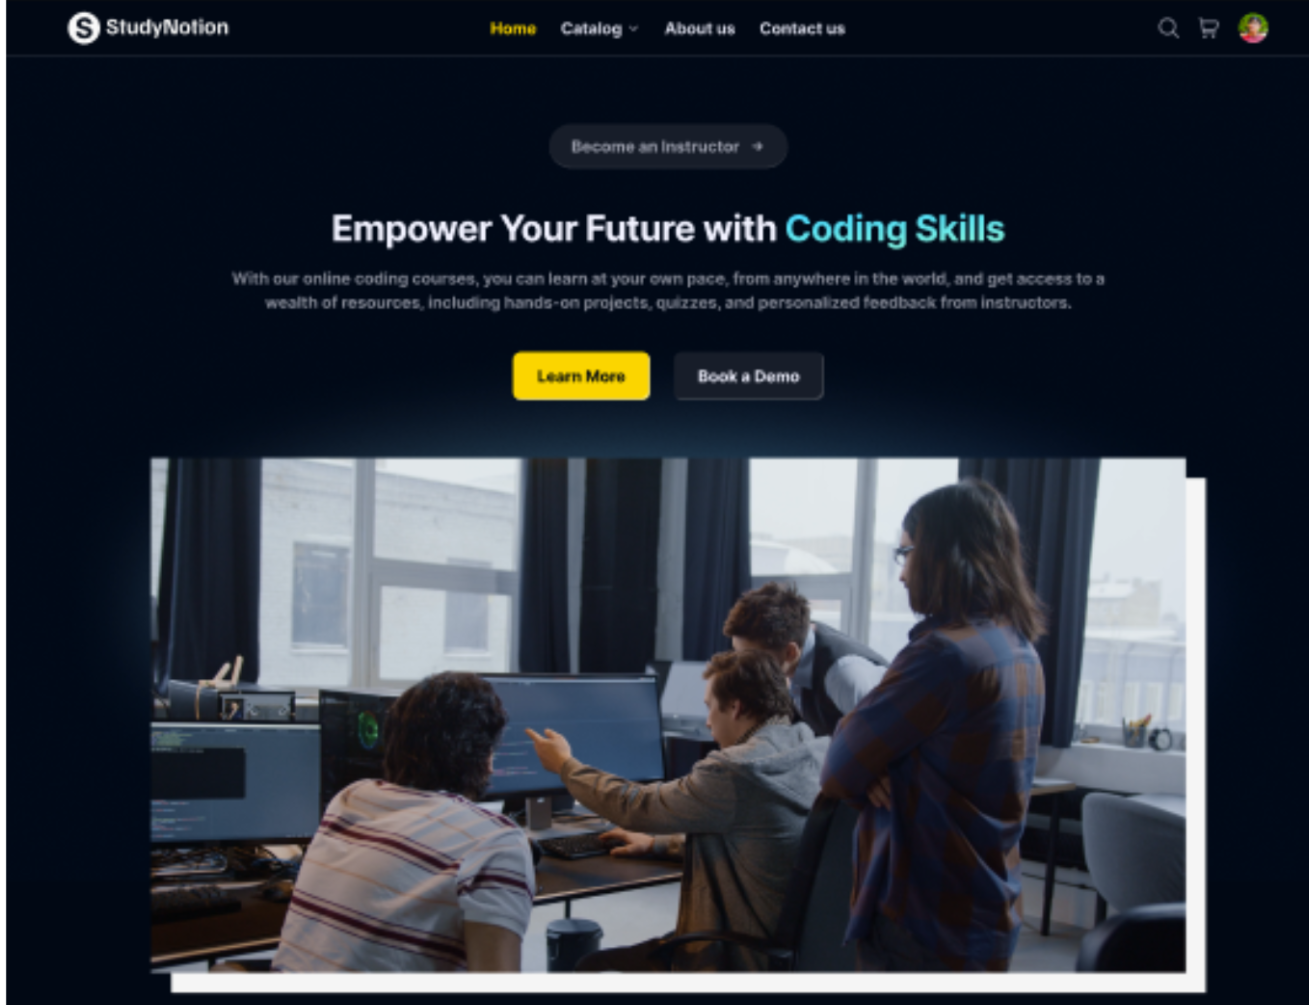
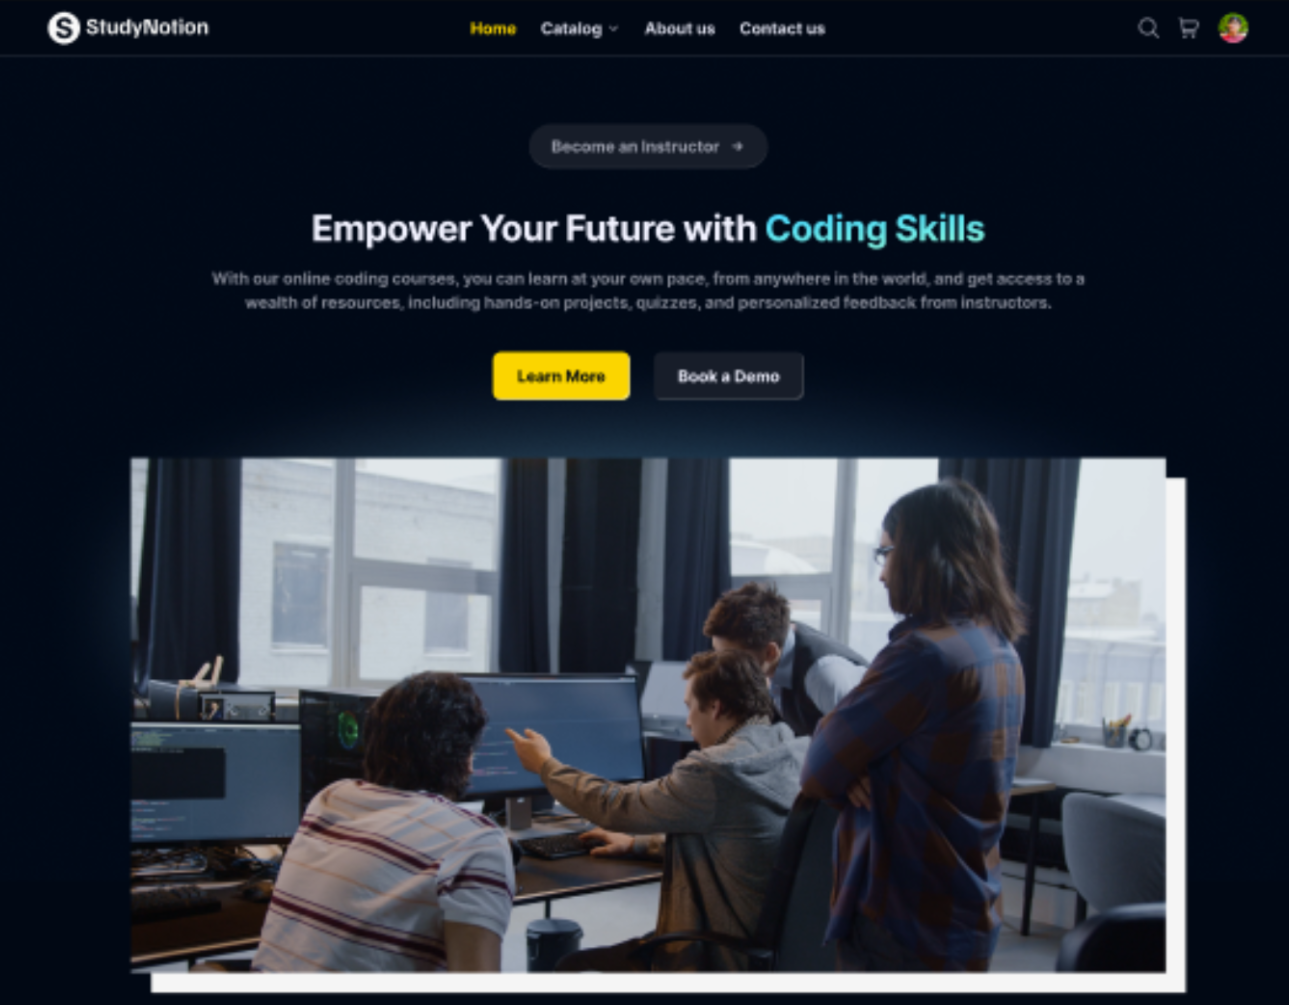
changing the data

diff --git a/src/index.css b/src/index.css
@@ -42,6 +42,21 @@
     transition: background-color 0.3s ease,transform color 0.3s ease;
 }
 
+.exp_img{
+    width: 100px;
+    height: 100px;
+    border-radius: 50%;
+    object-fit: cover;
+    overflow: hidden;
+}
+
+.skill_img{
+    width: 70px;
+    height: 70px;
+    border-radius: 50%;
+    object-fit: cover;
+    overflow: hidden;
+}
 
 .btn_warning:hover {
     background-color: #ffd100;
@@ -341,7 +356,7 @@ a {
     box-shadow: var(--box-shadow);
 }
 
-@media screen and (max-width: 850px) {
+@media screen and (max-width: 900px) {
     .exp {
         max-width: 100%;
         padding: 0 10px; /* Add padding for better spacing */
@@ -351,7 +366,7 @@ a {
         margin-bottom: 2rem; /* Adjust margin for smaller screens */
     }
 
-    .exp_items {
+    .exp_items{
         flex-direction: column; /* Stack items vertically */
         align-items: center; /* Align items to the start */
         margin: 10px 0; /* Adjust margin for better spacing */
@@ -359,6 +374,13 @@ a {
         max-width: 100%; /* Ensure the items use full width */
         gap: 1rem;
         margin-bottom: 3rem;
+    }
+
+    .exp_content{
+        display: flex;
+        align-items: center;
+        flex-direction: column;
+        margin: 0 auto;
     }
 }
 
@@ -412,7 +434,7 @@ a {
 
 
 /* Media Query for max-width 550px */
-@media screen and (max-width: 550px) {
+@media screen and (max-width: 700px) {
     .skills {
         max-width:100%;
         padding: 0 10px; /* Add padding for better spacing */
@@ -420,7 +442,7 @@ a {
 
     .skills .items {
         max-width: 100%;
-        grid-template-columns: repeat(auto-fit, minmax(150px, 160px)); /* 1 box per row */
+        grid-template-columns: repeat(auto-fit, minmax(150px, 200px)); /* 1 box per row */
         gap: 12px; /* Adjust the gap between boxes */
     }
 
@@ -431,6 +453,14 @@ a {
 
     .skills .items .item img {
         max-width: 50px; /* Reduce the size of images */
+    }
+
+    .skill_img{
+        width: 50px;
+        height: 50px;
+        border-radius: 50%;
+        object-fit: cover;
+        overflow: hidden;
     }
 }
 
@@ -446,7 +476,7 @@ a {
     color: #DEE2E6;
 }
 
-.projects .project {
+.projects .project{
     display: flex;
     flex-wrap: wrap;
     justify-content: center;
@@ -459,8 +489,8 @@ a {
 .project_item {
     margin: 1.5rem auto;
     background-color: var(--bg-color);
-    max-width: 15rem;
-    height: 25rem;
+    max-width: 20rem;
+    max-height: 35rem;
     display: flex;
     align-items: center;
     flex-direction: column;
@@ -471,7 +501,7 @@ a {
 }
 
 .project_item:hover {
-    transform: scale(1.02);
+    transform: scale(1.03);
 }
 
 .card_img {
@@ -483,6 +513,11 @@ a {
     /* border: 1.2px solid yellow; */
     border-radius: 7px;
     box-shadow: var(--box-shadow);
+    transition: transform 0.3s ease;
+}
+
+.card_img:hover{
+    transform: scale(1.03);
 }
 
 .card_content {
@@ -502,6 +537,13 @@ a {
 
 .particles_container {
     transform: translateZ(0);
+}
+
+@media screen and (max-width: 780px){
+    .project{
+        display: flex;
+        flex-direction: column;
+    }
 }
 
 

diff --git a/src/components/Experience.jsx b/src/components/Experience.jsx
@@ -14,20 +14,22 @@ const Experience = () => {
                 <>
                 <div key={data.id} className="exp_items" data-aos="zoom-in" data-aos-duration="1000">
                   <div className="left">
-                    <img src={`./assets/${data.imageSrc}`} alt="" />
+                    <img className='exp_img' src={`./assets/${data.imageSrc}`} alt="" />
                   </div>
-                  <div className="right">
+                  <div className="right exp_content">
                     <h2>{data.role}</h2>
                     <h4>
                       <span > 
-                         {data.startDate} {data.endDate}
+                         {data.startDate} to {data.endDate}
                       </span>{" "}
                       <span>
                        {data.location}
                       </span>
                     </h4>
+                    
                     <h5>{data.experiences[1]}</h5>
                     <h5>{data.experiences[0]}</h5>
+                    
                   </div>
                 </div>
                 </>

diff --git a/src/components/Skills.jsx b/src/components/Skills.jsx
@@ -13,7 +13,7 @@ const Skills = () => {
           skills.map((skill) =>(
             <div>
                 <div className="item" key={skill.id} data-aos="flip-left" data-aos-duration="1000">
-                  <img src={`./assets/${skill.imageSrc}`} alt="skill image" />
+                  <img className='skill_img' src={`./assets/${skill.imageSrc}`} alt="skill image" />
                   <h3>{skill.title}</h3>
                 </div>
               </div>
